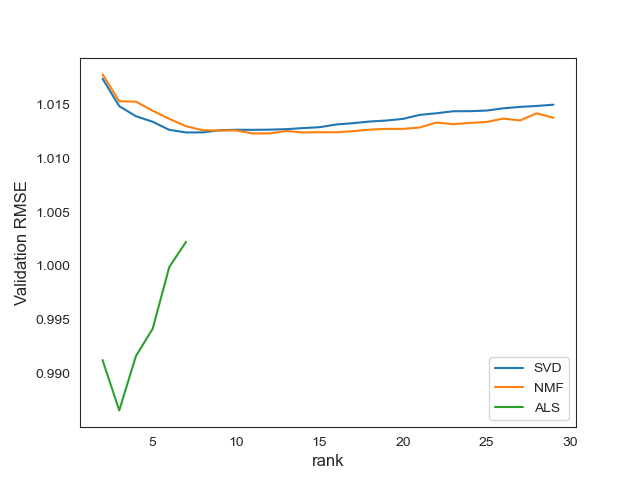
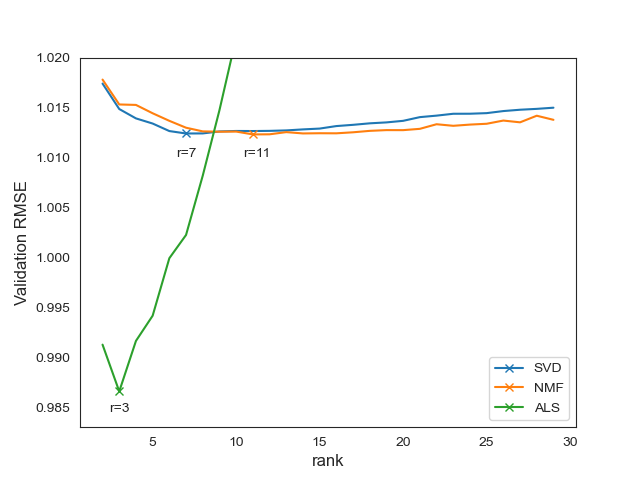
Fixing parallel implementation, final rank graph

diff --git a/plots/generate_plots.py b/plots/generate_plots.py
@@ -1,7 +1,10 @@
+from pickletools import markobject
+from turtle import color
 from matplotlib import pyplot as plt
 import json
 import os
 import seaborn as sns
+import numpy as np
 
 def main():
      generate_rank_experiments_plot()
@@ -33,11 +36,17 @@ def generate_rank_experiments_plot():
      val_nmf = sorted(val_nmf, key=lambda x: x[0])
      val_svd = sorted(val_svd, key=lambda x: x[0])
      val_als = sorted(val_als, key=lambda x: x[0])
-
+     
      sns.set_style("white")
-     plt.plot([t[0] for t in val_svd], [t[1] for t in val_svd], label = 'SVD')
-     plt.plot([t[0] for t in val_nmf], [t[1] for t in val_nmf], label = 'NMF')
-     plt.plot([t[0] for t in val_als], [t[1] for t in val_als], label = 'ALS')
+     plt.plot([t[0] for t in val_svd], [t[1] for t in val_svd], '-x', label = 'SVD', markevery=[5])
+     plt.plot([t[0] for t in val_nmf], [t[1] for t in val_nmf], '-x', label = 'NMF', markevery=[9])
+     plt.plot([t[0] for t in val_als], [t[1] for t in val_als], '-x', label = 'ALS', markevery=[1])
+     plt.annotate("r=7", (6.4, 1.01))
+     plt.annotate("r=11", (10.4, 1.01))
+     plt.annotate("r=3", (2.4, 0.9845))
+     
+     plt.ylim(top = 1.02, bottom=0.983)
+
      plt.ylabel('Validation RMSE', fontsize = 12)
      plt.xlabel('rank', fontsize = 12)
      plt.legend()
